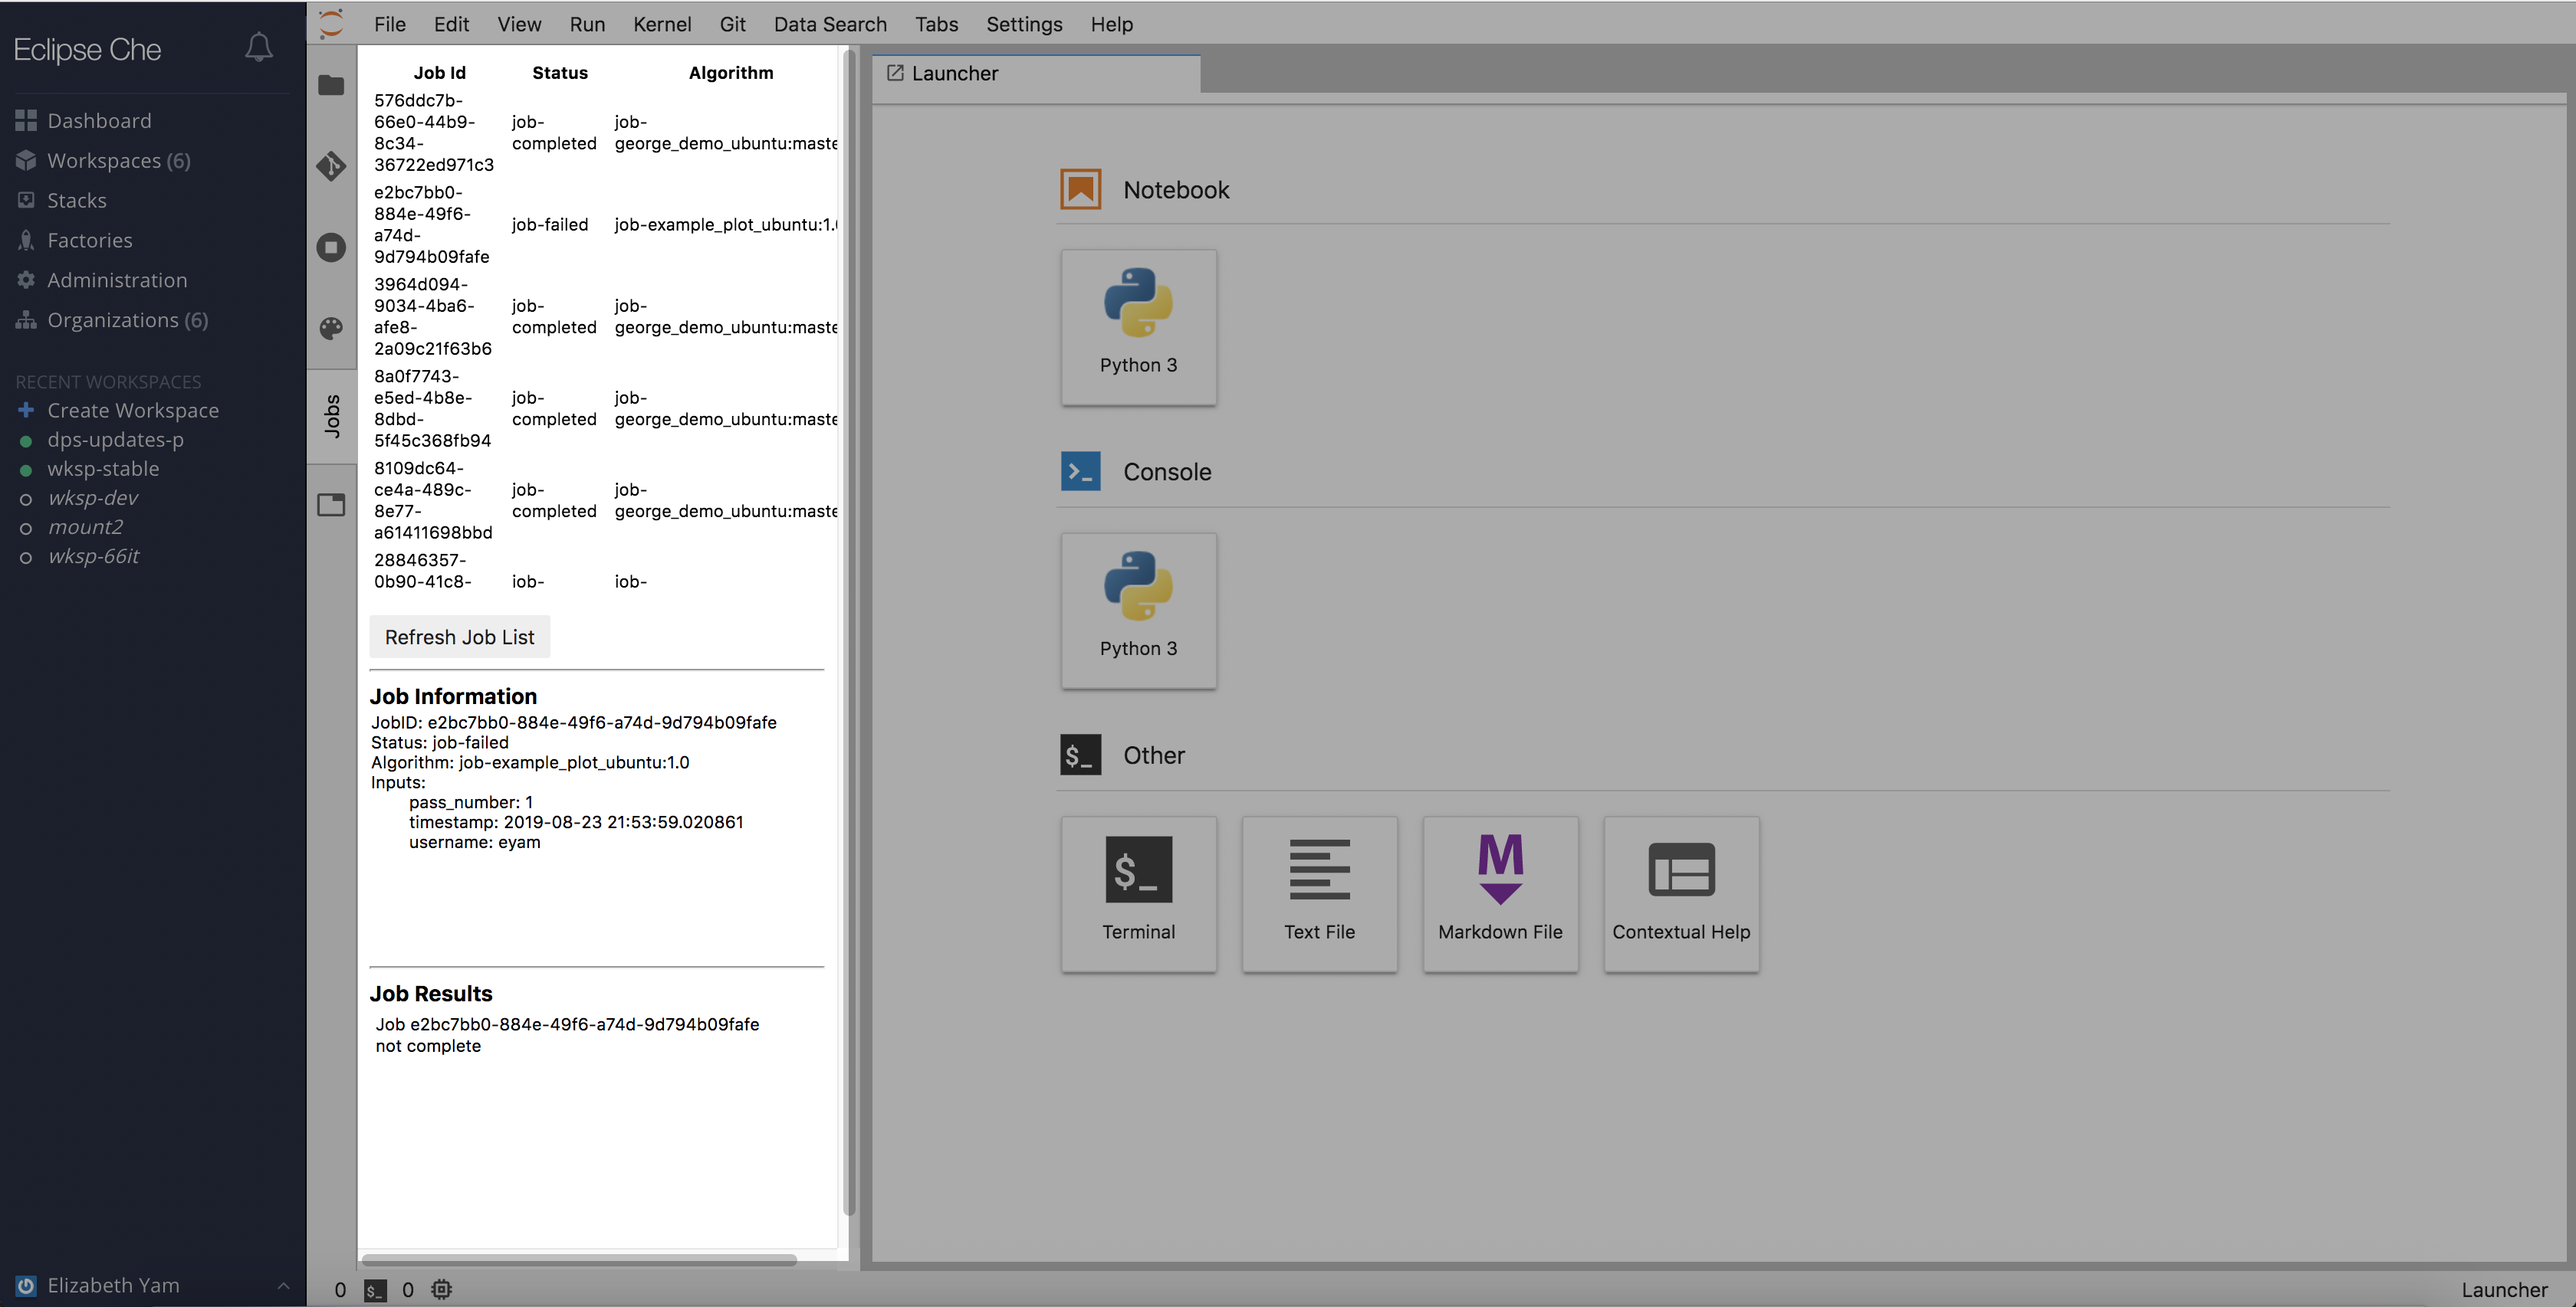
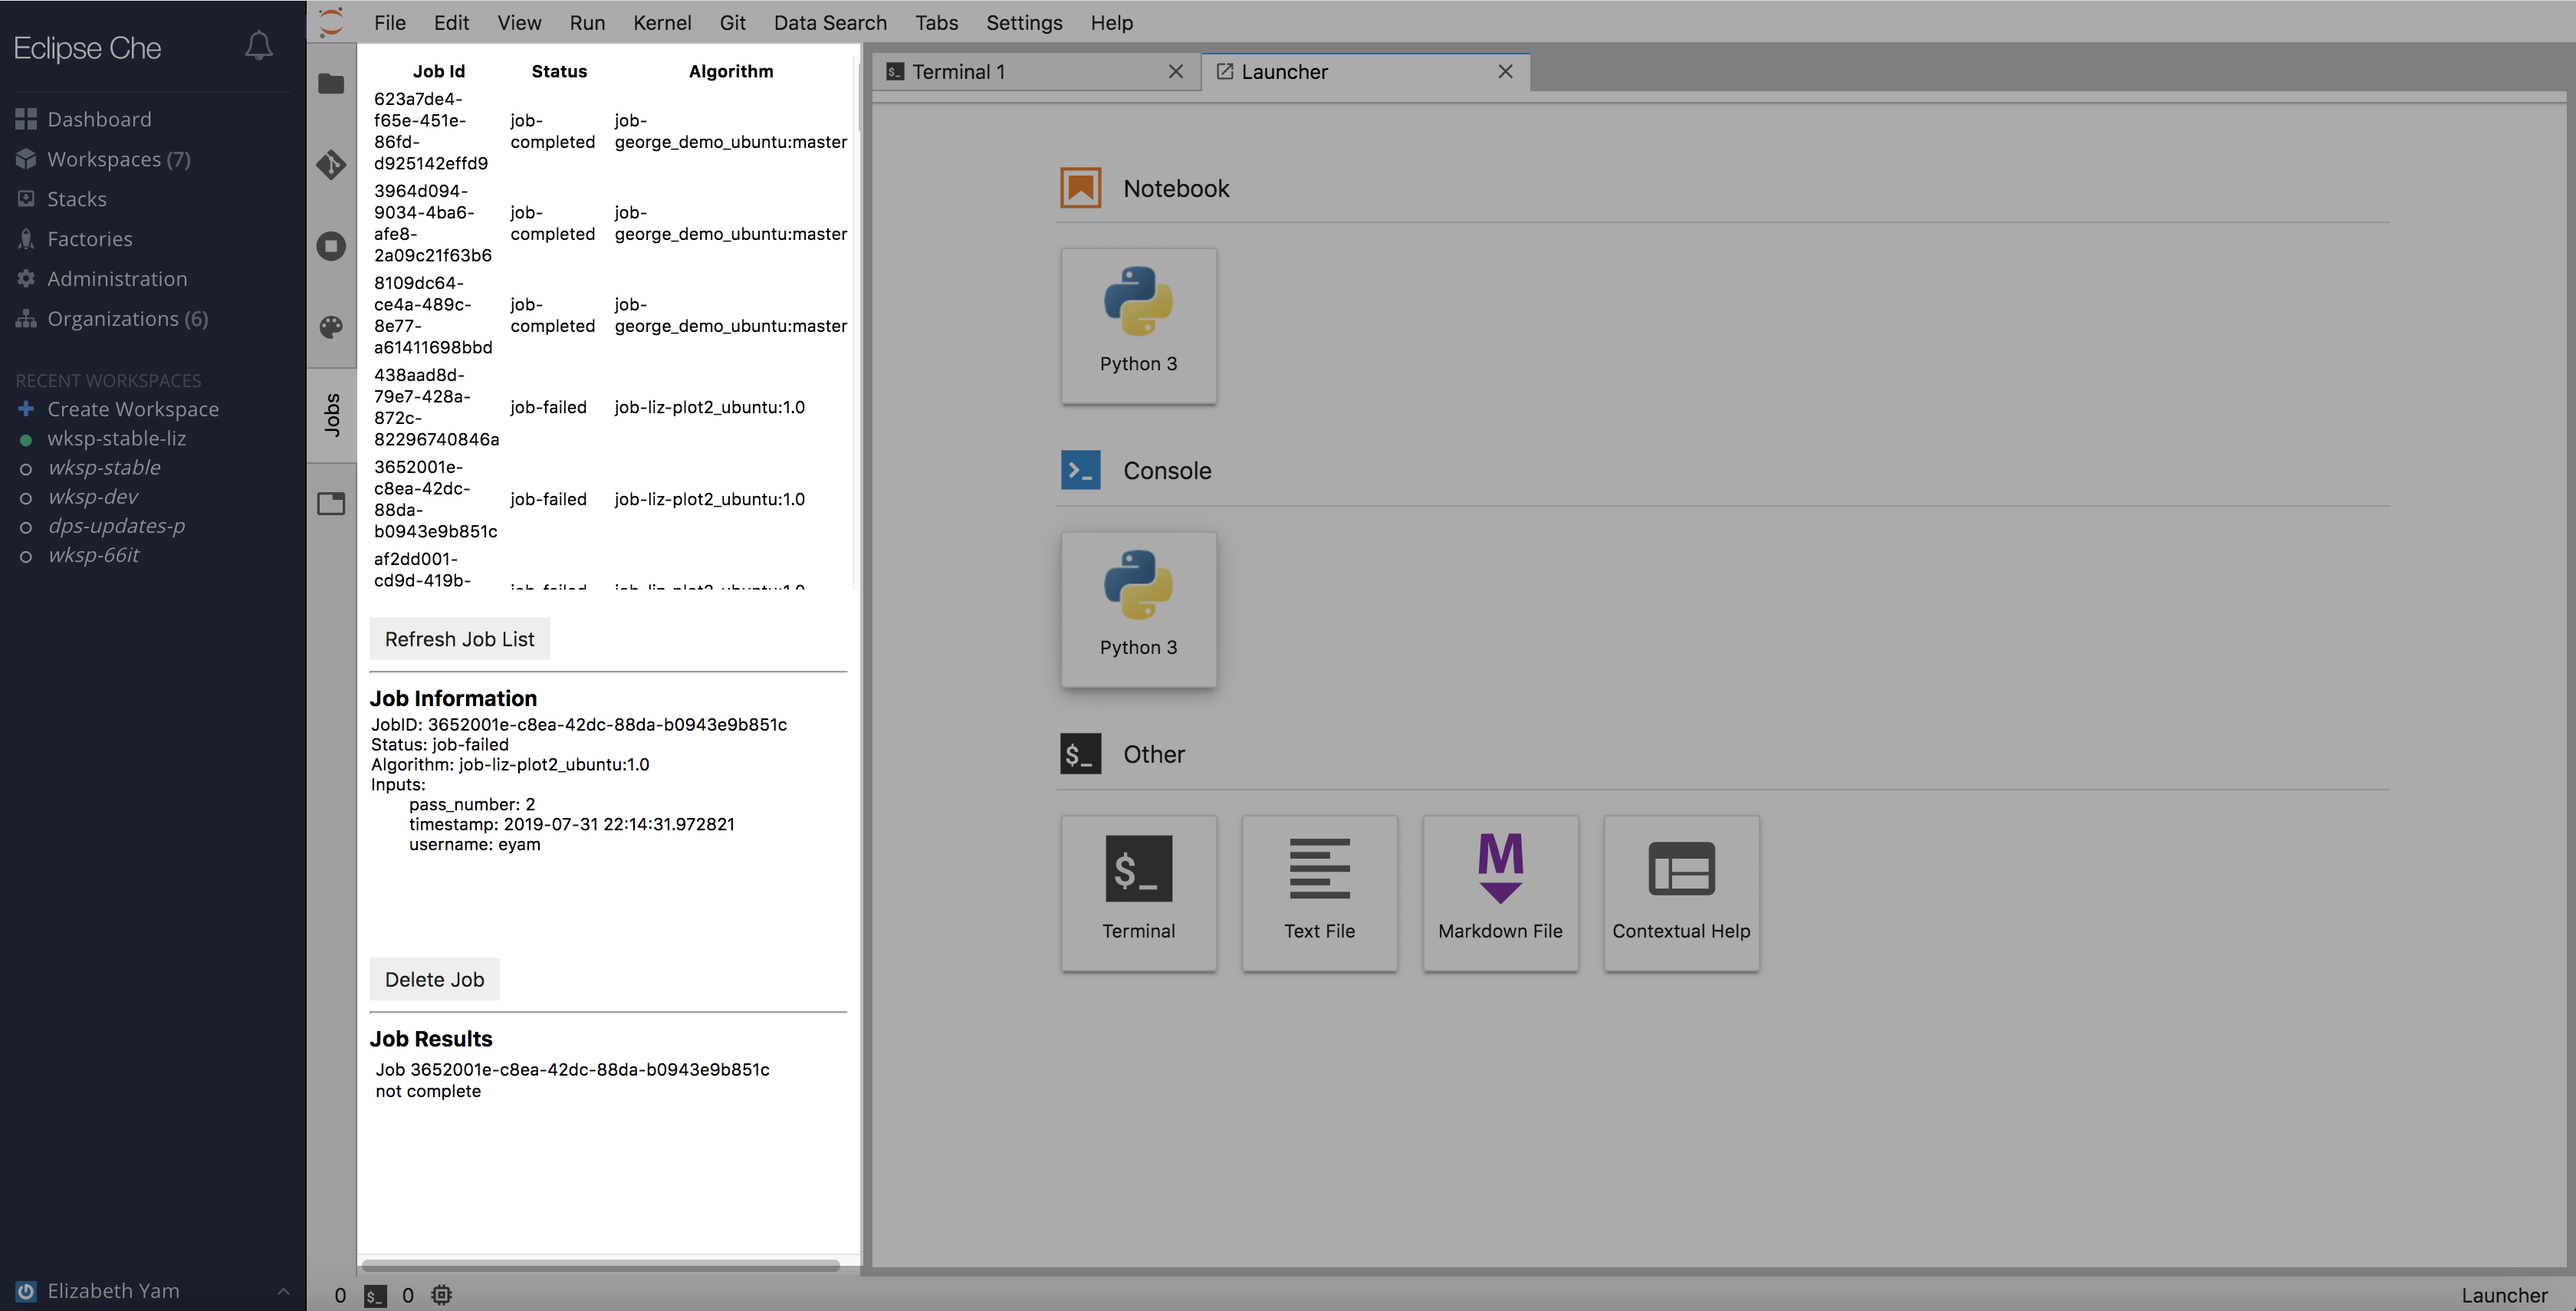
update user guides

diff --git a/user_guides/job_submission.md b/user_guides/job_submission.md
@@ -2,7 +2,7 @@
 
 ## List Previous Jobs
 
-The `Jobs` pane will need to be manually (re)loaded.  This can be done by going to the `Command Palette` -> `DPS` -> `Refresh Job List`.  Once this happens, the `Submitted Jobs` pane will display a scrollable, up-to-date table of the user's job history with Job Id, Job Status, and Algorithm, sorted by the most recently submitted job.  
+The `Jobs` pane will need to be manually (re)loaded.  This can be done by going to the `Command Palette` -> `DPS` -> `Refresh Job List`.  Once this happens, the `Submitted Jobs` pane will display a scrollable, up-to-date table of the user's job history with Job Id, Job Status, and Algorithm, sorted by the most recently submitted job.  From here, users can go directly to the s3-hosted results of a completed job or delete the currently viewed job.
 
 ![List Jobs - Command Palette](./images/refresh_jobs.png)
 ![Jobs Panel](./images/jobs_panel.png)
@@ -43,9 +43,9 @@ Alternatively, if the job was submitted under a different user, and the Job ID i
 
 ## Check Job Results
 
-The easiest way to check a job's status is to find and click on it on the `Submitted Jobs` pane.  
+The easiest way to check a job's status is to find and click on it on the `Jobs` pane.  
 
-Alternatively, if the job was submitted under a different user, and the Job ID is known, the user can check the job status by going to `Command Palette` -> `DPS` -> `Get DPS Job Result`.
+Alternatively, if the job was submitted under a different user, and the Job ID is known, the user can check the job status by going to `Command Palette` -> `DPS` -> `Get DPS Job Result`.  A series of dialogs similar to `Get Status` will popup.
 
 ![Job Results - Command Palette](./images/results1.png)
 
@@ -55,7 +55,10 @@ Alternatively, if the job was submitted under a different user, and the Job ID i
 
 ## Delete Job
 
-Deleting a job means removing any record of a job that has already been attempted and failed or completed.  To delete a job, go to `Command Palette` -> `DPS` -> `Delete DPS Job`.  A popup will appear, prompting the user to enter the job id.
+The easiest way to delete a job is to view it on the `Jobs` pane and click the `Delete Job` button.
+
+Deleting a job means removing any record of a job that has already been attempted and failed or completed.  To delete a job, go to `Command Palette` -> `DPS` -> `Delete DPS Job`.  Similar to `Get Status` and `Get Results`, a popup will appear, prompting the user to enter the job id.
+
 
 ## Dismiss Job
 

diff --git a/user_guides/sharing.md b/user_guides/sharing.md
@@ -78,9 +78,7 @@ In `/projects`, each user has a personal s3-hosted folder with the same name as 
 
 Users can create a shareable link for any files in their folder that is hosted on s3. To do this, go to `Command Palette` -> `User` -> `Get Presigned S3 URL` and enter the relative path to the file you want to share.  The link will expire after 5 minutes.
 
-![palette get s3 url](./images/palette-s3url.png)
-![enter s3 url filepath](./images/s3url-filepath.png)
-![s3 url link](./images/s3url-link.png)
+![s3-link-gif](./images/presignedurl.gif)
 
 *TODO:*  Generate s3 url from FileBrowser when implemented, inline magic for s3 url?
 
